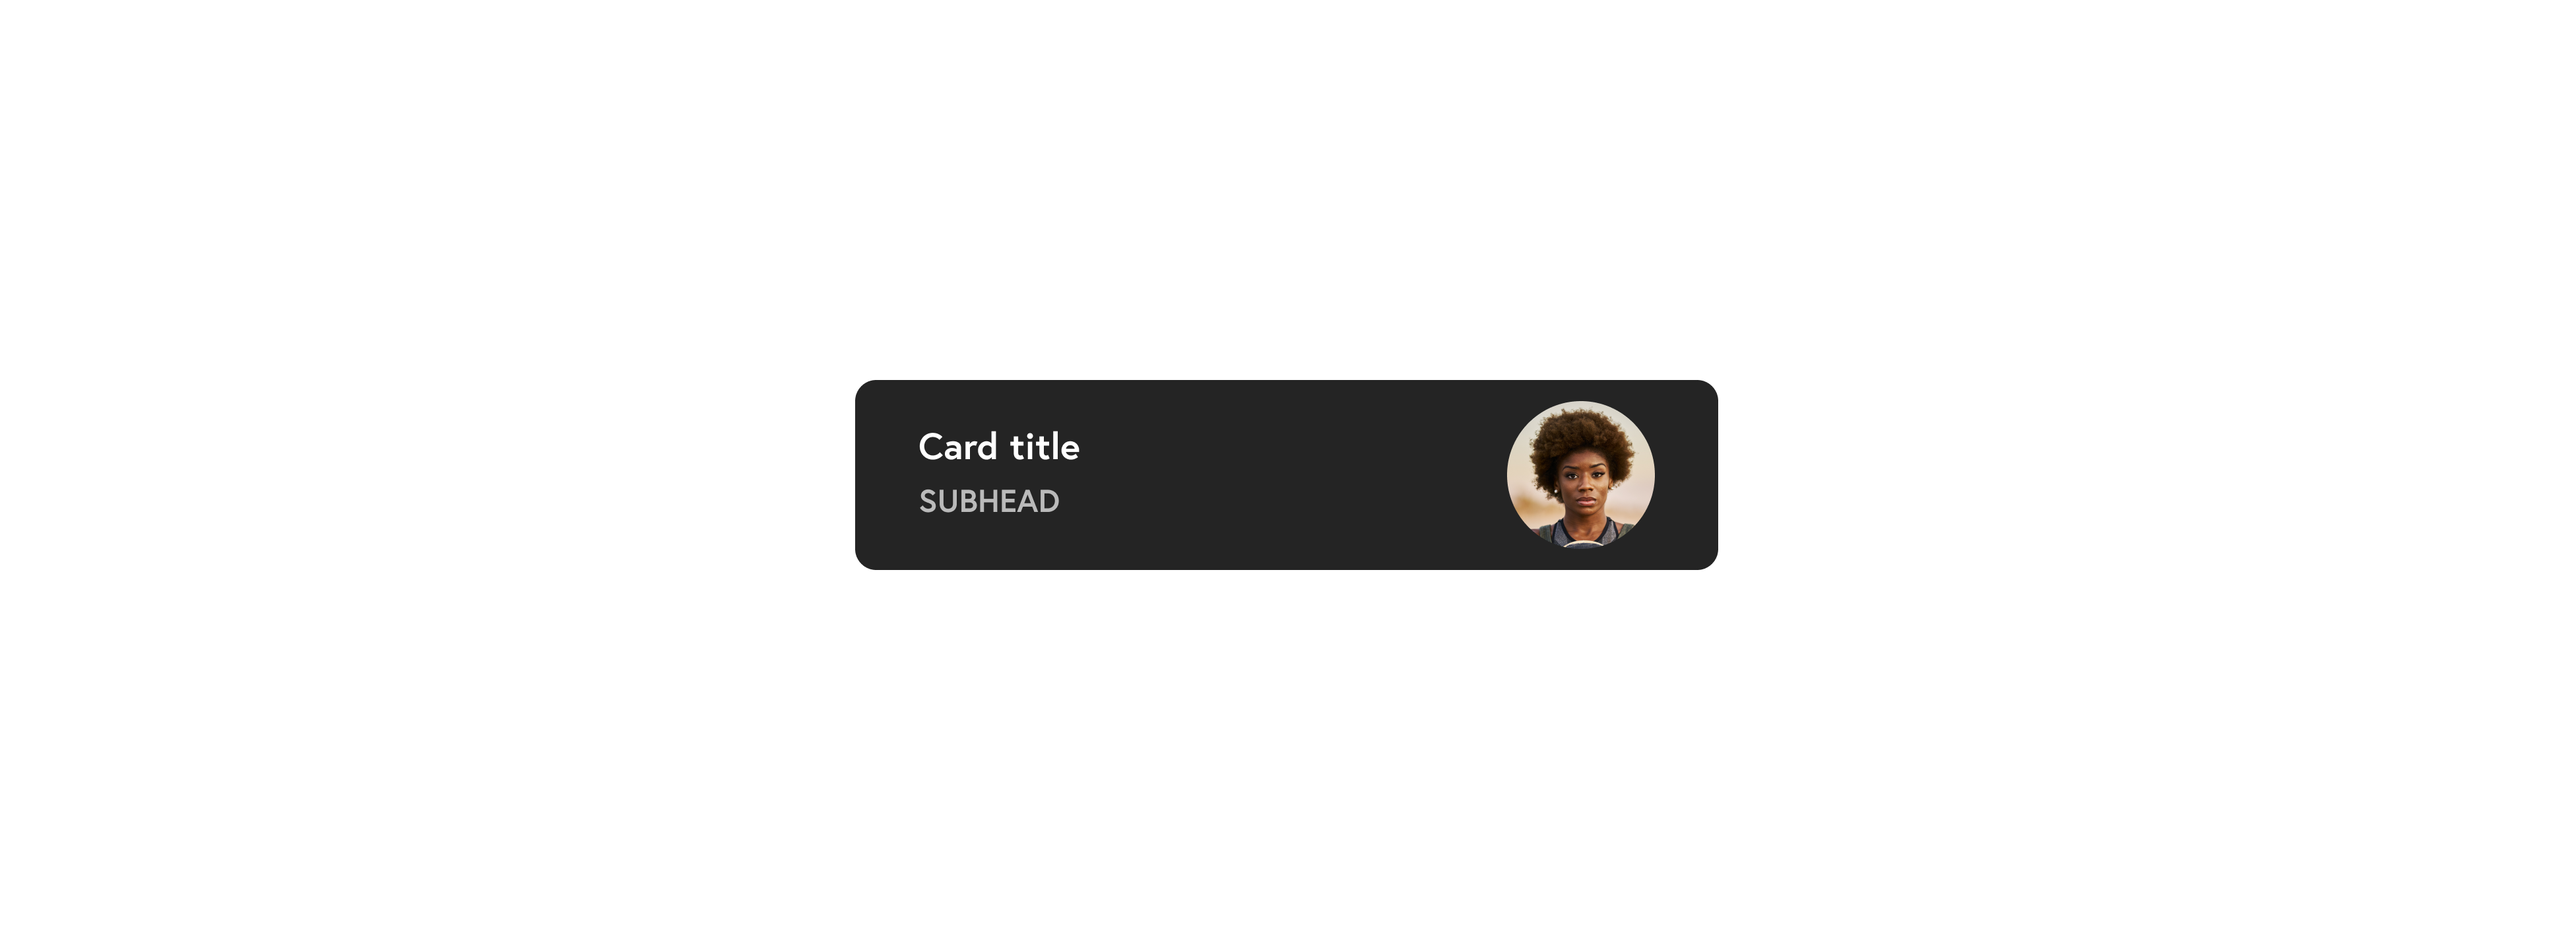
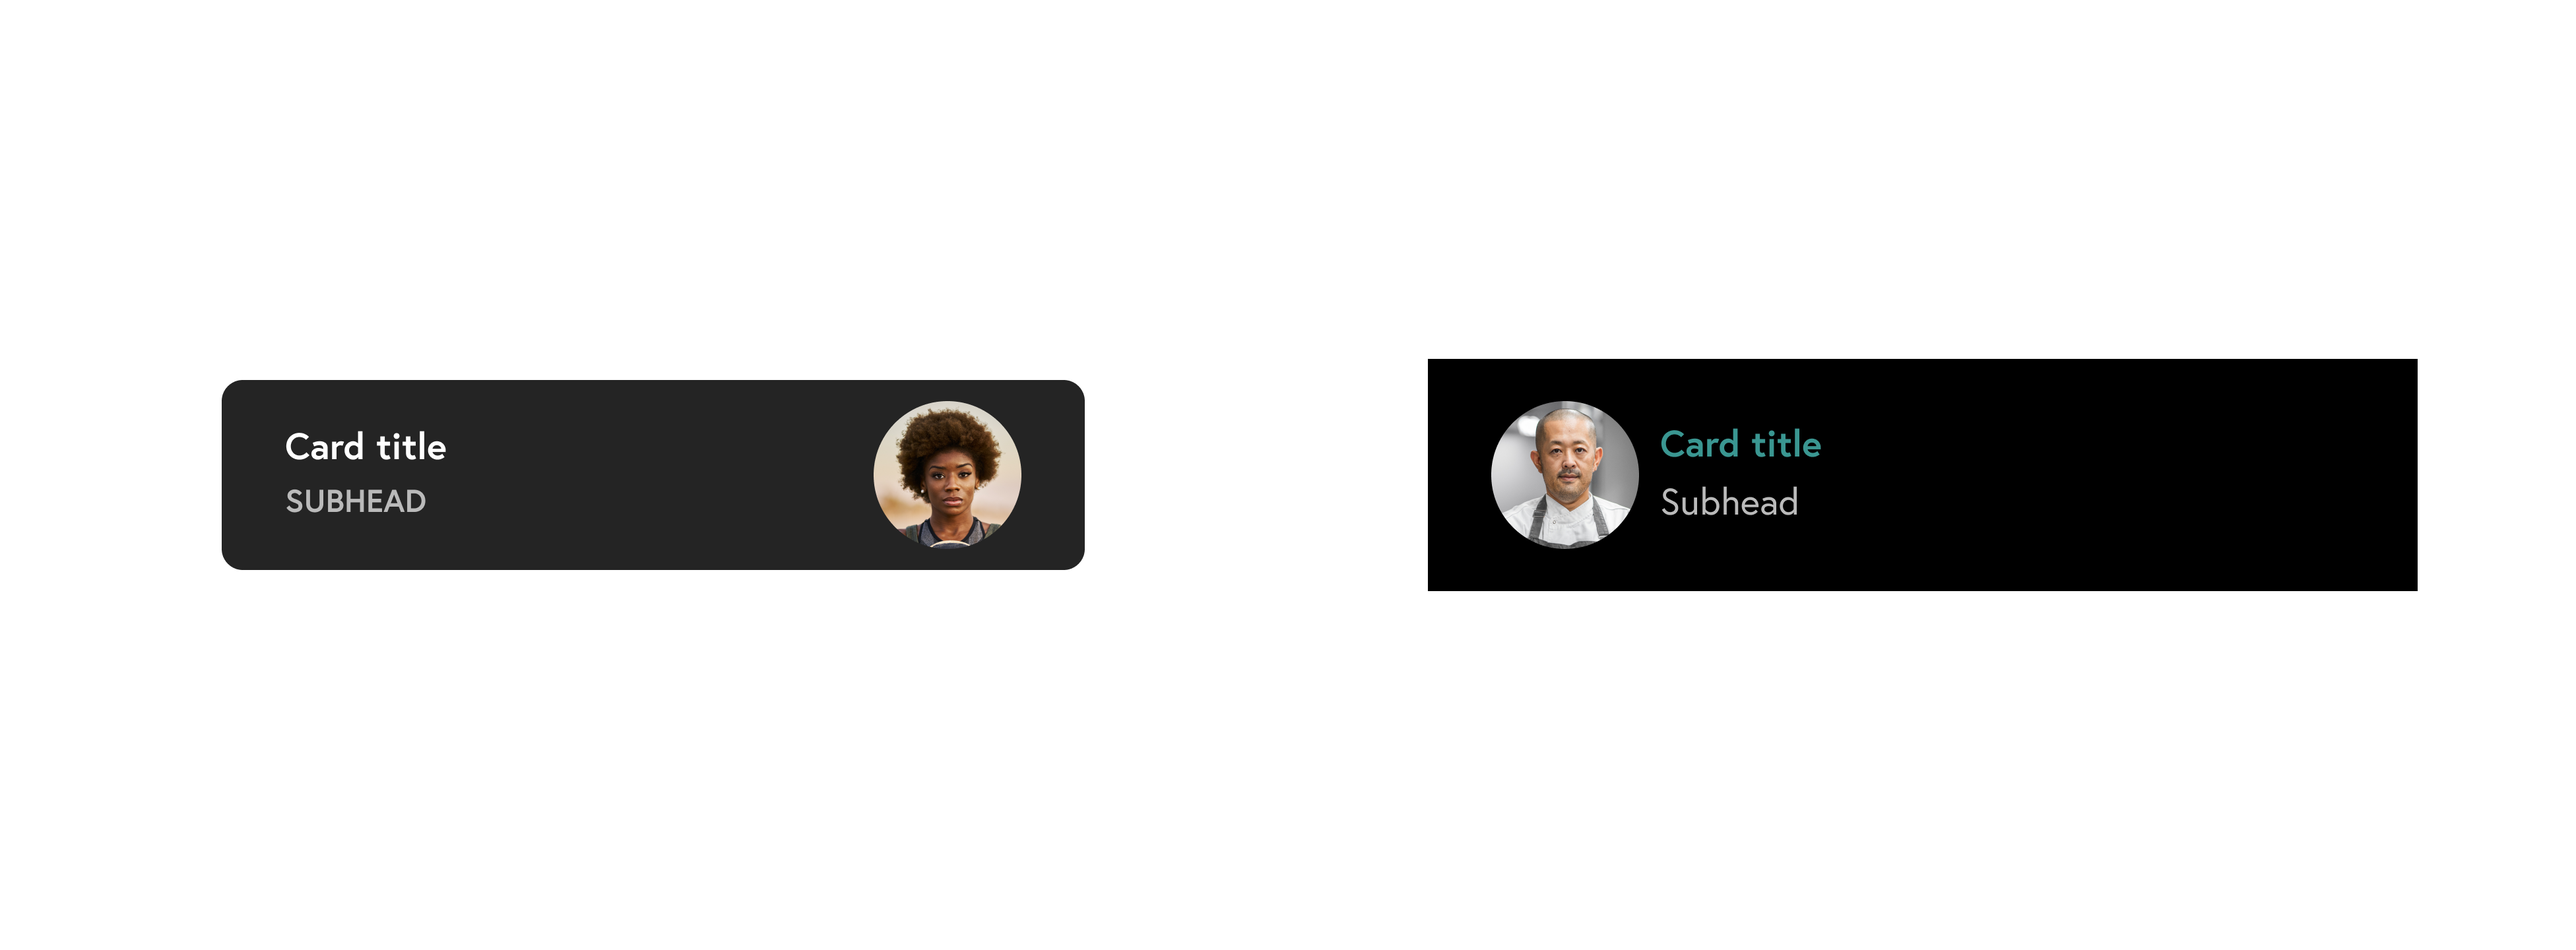
Add a not contained option for the RX

Changed region(s): [[0.0625, 0.375, 0.9375, 0.625]]

diff --git a/docs/core/200-farfalle/090-Patterns/110-Cardlet.md b/docs/core/200-farfalle/090-Patterns/110-Cardlet.md
@@ -145,9 +145,40 @@ Cardlets are a way to present several items of a same category. They're part of 
         </tbody>
      </table>
    </div>
- </section>## Decisions
+ </section>
+ 
+## Decisions
 
 ![Decisions Blueprint]({{site.baseurl}}/assets/projects/{{page.project_id}}/images/YPL-DOC-FFL-P0002-bp_decisions_01.png)
+
+### Variations
+
+#### Options
+
+![Preview]({{site.baseurl}}/assets/projects/{{page.project_id}}/images/YPL-DOC-FFL-{{page.UID}}-preview_02.png){: .darkenabled}
+
+<table class="type-01 headerNoUpperCase colBordered headFramed">
+  <!-- <caption>my caption</caption> -->
+  <thead>
+    <tr>
+      <th>.OPT_notContained</th>
+    </tr>
+  </thead>
+  <tbody>
+    <tr>
+      <td>
+        <span data-toolclip='"YPL.FFL.TKUI_D.P0002.OPT_notContained.bgColor.value": "{YPL.FFL.TKUI_C.colors.transparent.value}"'><code class="language-plaintext highlighter-rouge">.bgColor</code></span>
+        <span data-toolclip='"YPL.FFL.TKUI_D.P0002.OPT_notContained.BLK_copy.title.color.value": "{YPL.FFL.TKUI_C.colors.teal.400.value}"'><code class="language-plaintext highlighter-rouge">.title.color</code></span>
+        <span data-toolclip='"YPL.FFL.TKUI_D.P0002.OPT_notContained.BLK_copy.eyebrow.style.value": "{YPL.FFL.F0002-103}"'><code class="language-plaintext highlighter-rouge">.eyebrow.style</code></span>
+        <span data-toolclip='"YPL.FFL.TKUI_D.P0002.OPT_notContained.BLK_copy.eyebrow.color.value": "{YPL.FFL.TKUI_C.colors.grey.900.value}"'><code class="language-plaintext highlighter-rouge">.eyebrow.color</code></span>
+        <span data-toolclip='"YPL.FFL.TKUI_D.P0002.OPT_notContained.BLK_copy.marginRight.value": "{YPL.FFL.TKUI_C.spaces.none.value}"'><code class="language-plaintext highlighter-rouge">.marginRight</code></span>
+        <span data-toolclip='"YPL.FFL.TKUI_D.P0002.OPT_notContained.BLK_copy.fringeRight.value": "{YPL.FFL.TKUI_C.spaces.none.value}"'><code class="language-plaintext highlighter-rouge">.fringeRight</code></span>
+        <span data-toolclip='"YPL.FFL.TKUI_D.P0002.OPT_notContained.BLK_copy.marginLeft.value": "{YPL.FFL.TKUI_C.spaces.s.value}"'><code class="language-plaintext highlighter-rouge">.marginLeft</code></span>
+        <span data-toolclip='"YPL.FFL.TKUI_D.P0002.OPT_notContained.BLK_copy.fringeLeft.value": "{YPL.FFL.TKUI_C.spaces.s.value}"'><code class="language-plaintext highlighter-rouge">.fringeLeft</code></span>
+      </td>
+    </tr>
+  </tbody>
+</table>
 
 <!-- ### Interaction -->
 
